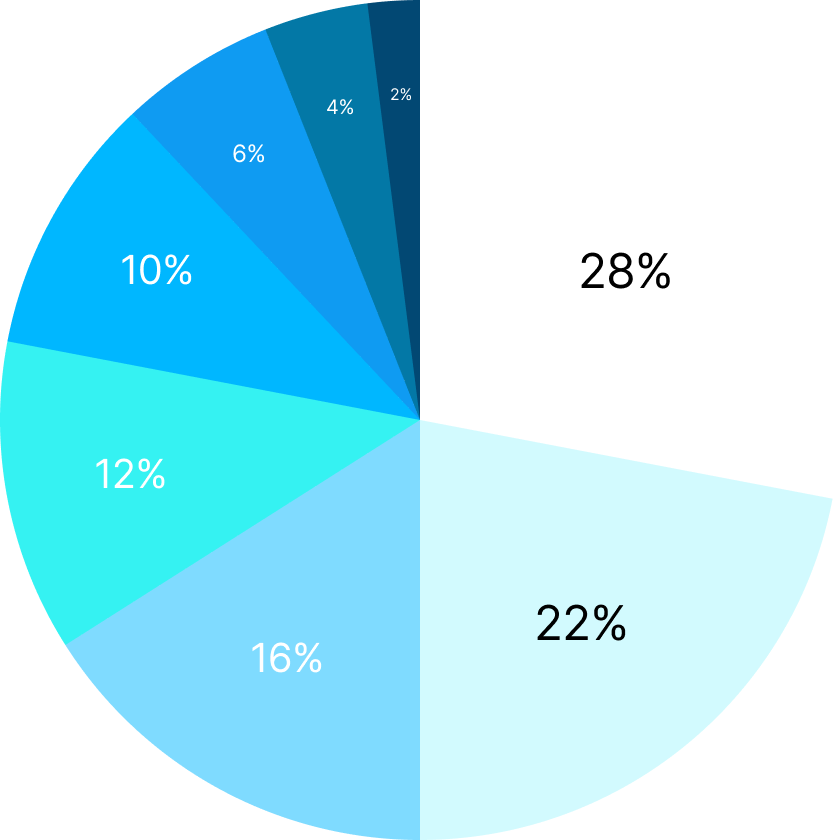
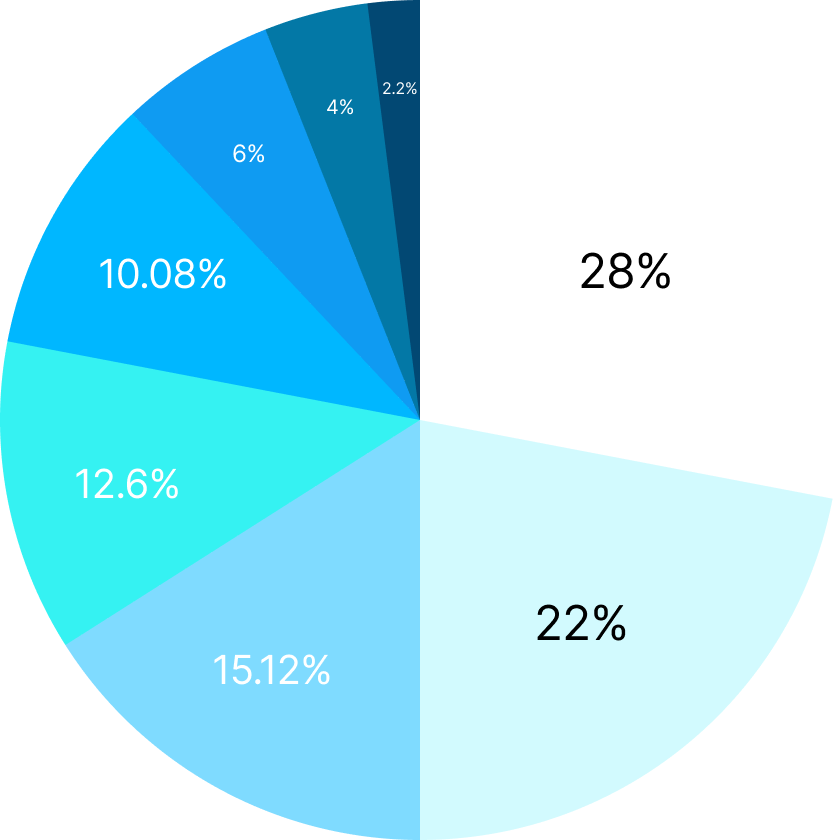
fix link and frame

diff --git a/src/pages/caviarCoin/CaviarCoin.tsx b/src/pages/caviarCoin/CaviarCoin.tsx
@@ -14,31 +14,31 @@ export const CaviarCoin: React.FC = () => {
 
   useEffect(() => {
     if (i18n.language === "ru") {
-      setLinkTelegram("https://t.me/tonfrogs");
+      setLinkTelegram("https://t.me/CaviarCoin");
     } else {
-      setLinkTelegram("https://t.me/frogs");
+      setLinkTelegram("https://t.me/CaviarCoin");
     }
   }, [i18n.language]);
 
   const chartInformationItem = [
     {
-      text: "5,500,000 $CAVI - Staking NFT TON Frogs",
+      text: "7,000,000 $CAVI - Fairlaunch",
       color: "#FFFFFF",
     },
     {
-      text: "5,000,000 $CAVI - Fairlaunch",
+      text: `5,500,000 $CAVI - ${t("staking")}`,
       color: "#024873",
     },
     {
-      text: "4,500,000 $CAVI - Listing DeX DeDust",
+      text: `3,780,000 $CAVI - ${t("listing")}`,
       color: "#0378A6",
     },
     {
-      text: "4,500,000 $CAVI - Subsequent listings DeX & CeX.",
+      text: `3,150,000 $CAVI - ${t("DeXCeX")}`,
       color: "#0F9BF2",
     },
     {
-      text: `2,500,000 $CAVI - ${t("team")}`,
+      text: `2,520,000 $CAVI - ${t("team")}`,
       color: "#00B7FF",
     },
     {
@@ -50,7 +50,7 @@ export const CaviarCoin: React.FC = () => {
       color: "#94E9F2",
     },
     {
-      text: `500,000 $CAVI - Boosting pools and rewards`,
+      text: `550,000 $CAVI - ${t("boosting")}`,
       color: "#D2FAFE",
     },
   ];

diff --git a/src/pages/caviarCoin/caviarCoin.module.scss b/src/pages/caviarCoin/caviarCoin.module.scss
@@ -321,6 +321,10 @@
             flex: 1 1 50%;
             padding: 17.5px 0px;
             border-radius: 44px;
+            @media (max-width: 520px) {
+              padding: 14px 0px;
+              font-size: 14px;
+            }
           }
         }
         .button_telegram {
@@ -330,6 +334,10 @@
           width: 100%;
           @media (max-width: 768px) {
             margin-top: 35px;
+          }
+          @media (max-width: 520px) {
+            padding: 14px 0px;
+            font-size: 14px;
           }
         }
       }
